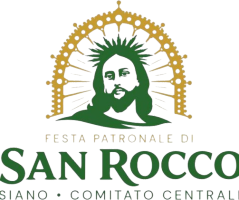
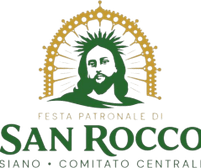
Alleggeriti i due marchi del pie' di pagina
logo.png: 480x478 e 345 kB per un marchio che si vede a 84 pixel. Ora
252x251 e 34 kB, dieci volte meno. comitato-festa.png: 80 -> 15 kB.

Il ?v= sale a 2 su tutti e due. Le immagini si servono con
Cache-Control di un giorno, quindi senza chi e' gia' passato di qui
avrebbe continuato a scaricare la versione pesante fino a domani -- la
stessa lezione di style.css, che era rimasta indietro di sei commit.
Quello del comitato ha l'indirizzo costruito in server.js, quindi la
versione va messa li'.

Controllato a vista prima di applicare, alle misure vere del pie' di
pagina: indistinguibili. E dopo, in un browser: entrambi caricano
(naturalWidth > 0), resa 84x84 e 57x48, nessuna immagine rotta.

Le immagini di /classifica passano da 1117 a 806 kB, misurate con lo
stesso strumento di prima per poterle confrontare.

Lo strumento ora sa prendere anche un file solo: i due marchi stanno
nella stessa cartella ma si vedono a misure diverse, e sono disegni, non
fotografie -- vanno in tavolozza come i loghi sponsor.

Claude-Session: https://claude.ai/code/session_012FSv1Gkcj4GEUB5sDw95yJ

diff --git a/strumenti/ottimizza_immagini.js b/strumenti/ottimizza_immagini.js
@@ -38,6 +38,13 @@ const REGOLE = [
     lato: 'width',  bersaglio: 840, nota: 'card programmazione, larghe 420px' },
   { nome: 'premi',    cartella: path.join(PUB, 'images', 'premi'),
     lato: 'width',  bersaglio: 968, nota: 'schede premio, larghe 484px' },
+  // I due marchi del pie' di pagina. `file` li prende uno per uno perche'
+  // stanno nella stessa cartella ma si vedono a misure diverse, e sono
+  // disegni e non fotografie: vanno in tavolozza come i loghi sponsor.
+  { nome: 'logo',     cartella: path.join(PUB, 'images'), file: 'logo.png',
+    lato: 'width',  bersaglio: 252, tavolozza: true, nota: 'marchio nel pie\' di pagina, largo 84px' },
+  { nome: 'comitato', cartella: path.join(PUB, 'images'), file: 'comitato-festa.png',
+    lato: 'height', bersaglio: 168, tavolozza: true, nota: 'marchio del comitato, alto 56px' },
 ];
 
 // Ogni formato si riscrive come sé stesso. I loghi vanno in tavolozza —
@@ -60,7 +67,10 @@ const kb = (b) => (b / 1024).toFixed(0).padStart(4);
   for (const r of REGOLE) {
     if (filtro && r.nome !== filtro) continue;
     if (!fs.existsSync(r.cartella)) continue;
-    const files = fs.readdirSync(r.cartella).filter((f) => /\.(png|jpe?g|webp|avif)$/i.test(f)).sort();
+    const files = (r.file ? [r.file] : fs.readdirSync(r.cartella))
+      .filter((f) => /\.(png|jpe?g|webp|avif)$/i.test(f))
+      .filter((f) => fs.existsSync(path.join(r.cartella, f)))
+      .sort();
     console.log(`\n══ ${r.nome} — ${r.nota} → ${r.lato} ${r.bersaglio}px ══`);
     let prima = 0, dopo = 0, toccati = 0;
 
@@ -74,7 +84,7 @@ const kb = (b) => (b / 1024).toFixed(0).padStart(4);
         const formato = meta.format === 'heif' ? 'avif' : meta.format;
         const pipe = sharp(p);
         if (meta[r.lato] > r.bersaglio) pipe.resize({ [r.lato]: r.bersaglio });
-        const buf = await scrivi(pipe, formato, r.nome === 'sponsor').toBuffer();
+        const buf = await scrivi(pipe, formato, r.nome === 'sponsor' || r.tavolozza).toBuffer();
 
         if (buf.length >= pesoPrima) {
           dopo += pesoPrima;

diff --git a/src/server.js b/src/server.js
@@ -562,9 +562,12 @@ function sponsorValido(v) {
 // Stemma del Comitato Festa accanto alla riga legale del footer. Stessa
 // regola dei loghi sponsor: se il file non c'è la riga resta di solo testo,
 // invece di mostrare l'icona di immagine rotta in fondo a ogni pagina.
+// Il ?v= serve come per style.css: le immagini restano in cache un giorno,
+// e senza questo chi e' gia' passato di qui continuerebbe a scaricare la
+// versione vecchia e pesante fino a domani.
 app.locals.logoComitato =
   fs.existsSync(path.join(__dirname, '..', 'public', 'images', 'comitato-festa.png'))
-    ? '/images/comitato-festa.png'
+    ? '/images/comitato-festa.png?v=2'
     : null;
 
 app.get('/premio', (req, res) => {
